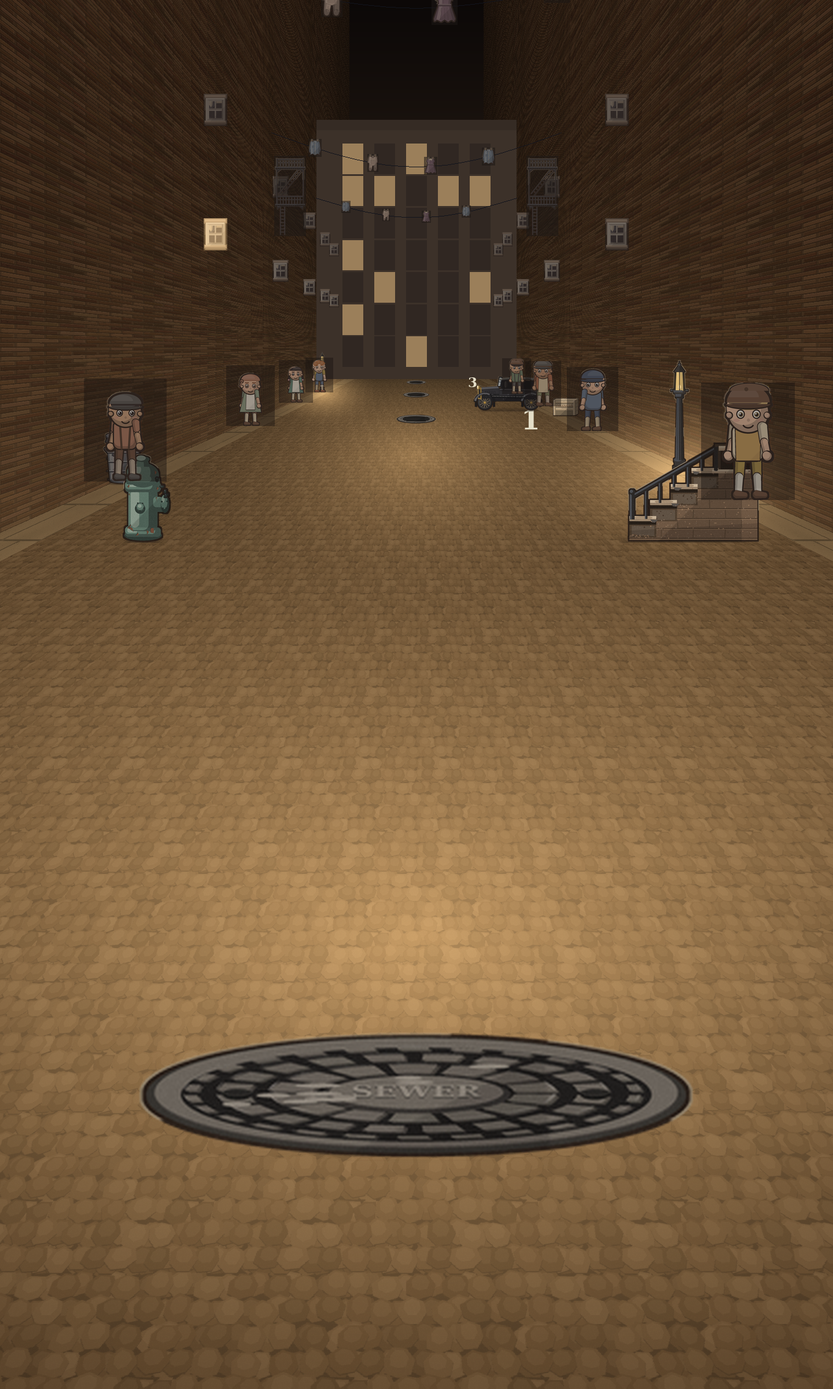
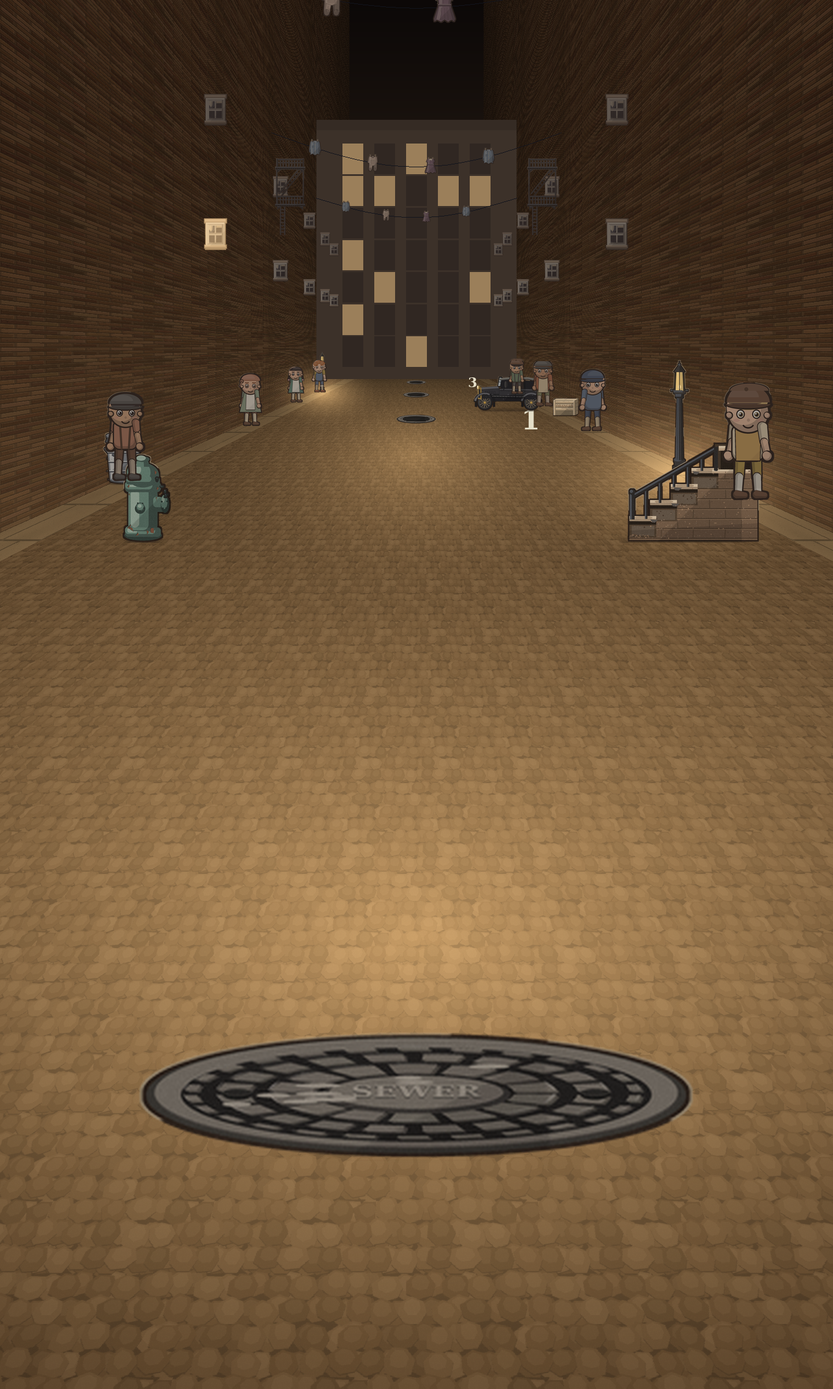
Give landscape the same camera as portrait; stop tinting away sprite cutouts
Landscape composition was failing the reference and the numbers said why.
Measuring the batter and the pitcher at their real world positions:

           batter        pitcher      depth ratio
  portrait  21.3%         4.2%          5.0x
  landscape 16.6%         7.5%          2.2x

A 2.2x ratio is not a street receding away from you, it is a flat top-down
board. The cause was z_far: 74.0 in portrait, 10.3 in landscape. But depth
falloff belongs to the lens, not to the phone's orientation — it is the same
camera looking down the same street. z_far had been dropped to 10.3 to stop
the batter falling off the bottom of a short frame, which treated a framing
bug with a lens change and flattened the world to hide it.

Landscape now shares z_far=74.0 and pushes its near plane well below the
frame (near_f 1.02 -> 2.39), letting the batter's feet crop the way the
reference art does. Both views now measure 5.0x. perspective.py and
tuning.gd move together, as they must, or the baked backdrop and the live
sprites would disagree.

Separately, every spectator on the kerb was standing in a dark rectangle.
Image.blend mixes the alpha channel too, so blending an RGBA sprite toward
an opaque colour lifts the transparent surround to alpha=amount*255 and
paints a translucent box over the sprite's bounding box. Five call sites did
this. Added _dim(), which tints the colour and puts the original alpha back.

Claude-Session: https://claude.ai/code/session_01EAhAdM4K8KttNcwM1gG72N

diff --git a/threesewers/tools/art_backdrop.py b/threesewers/tools/art_backdrop.py
@@ -178,6 +178,23 @@ def _vignette(img, strength=0.72):
     return out
 
 
+def _dim(spr, colour, amount):
+    """Tint a sprite toward a colour WITHOUT eating its cutout.
+
+    Image.blend mixes every channel, alpha included, so blending an RGBA
+    sprite toward an opaque colour lifts the transparent surround to
+    alpha=amount*255 and paints a translucent rectangle over the sprite's
+    whole bounding box. Every spectator on the kerb was standing in a dark
+    box because of this. Tint the colour, keep the original alpha.
+    """
+    a = spr.getchannel("A")
+    out = Image.blend(spr.convert("RGB"),
+                      Image.new("RGB", spr.size, tuple(colour[:3])), amount)
+    out = out.convert("RGBA")
+    out.putalpha(a)
+    return out
+
+
 def _paste(base, sprite, sx, sy, scale, anchor="bottom"):
     if scale <= 0.002:
         return
@@ -246,7 +263,7 @@ def build_backdrop(view, props_dir, chars_dir=None, rs=2, seed=3):
             return
         sx, sy, s = view.project(world_x, world_y, height)
         if tint is not None:
-            spr = Image.blend(spr, Image.new("RGBA", spr.size, tint), 0.55)
+            spr = _dim(spr, tint, 0.55)
         if flat:
             # lying on the cobbles, so it is squashed by the grazing angle
             spr = spr.resize((spr.width, max(2, int(spr.height * 0.52))),
@@ -268,14 +285,12 @@ def build_backdrop(view, props_dir, chars_dir=None, rs=2, seed=3):
                 continue
             sx, sy, s = view.project(wx, wy, 470.0)
             if lit:
-                spr = Image.blend(spr, Image.new("RGBA", spr.size,
-                                                 (255, 206, 140, 255)), 0.55)
+                spr = _dim(spr, (255, 206, 140), 0.55)
             else:
-                spr = Image.blend(spr, Image.new("RGBA", spr.size, night), 0.62)
+                spr = _dim(spr, night, 0.62)
             _paste(img, spr, sx * rs, sy * rs, s * view.xk * ART * rs, "center")
             sx, sy, s = view.project(wx, wy, 760.0)
-            spr2 = Image.blend(_load_prop(props_dir, "window"),
-                               Image.new("RGBA", spr.size, night), 0.7)
+            spr2 = _dim(_load_prop(props_dir, "window"), night, 0.7)
             _paste(img, spr2, sx * rs, sy * rs, s * view.xk * ART * rs, "center")
 
     # home, and the sewer covers the whole game is counted in
@@ -313,7 +328,7 @@ def build_backdrop(view, props_dir, chars_dir=None, rs=2, seed=3):
             if not os.path.exists(f):
                 continue
             spr = Image.open(f).convert("RGBA")
-            spr = Image.blend(spr, Image.new("RGBA", spr.size, night), 0.42)
+            spr = _dim(spr, night, 0.42)
             sx, sy, s = view.project(wx, wy, 0.0)
             _paste(img, spr, sx * rs, sy * rs, s * view.xk * ART * rs, "bottom")
 

diff --git a/threesewers/tools/perspective.py b/threesewers/tools/perspective.py
@@ -86,12 +86,18 @@ class View:
         return s * self.xk * 0.5
 
 
-# The two presets the game ships with. Portrait is the reference composition;
-# landscape sits the horizon lower and widens the gain so the same street
-# reads on a short, wide screen.
+# The two presets the game ships with. Both look down the SAME street from the
+# SAME camera, so they share z_far: how fast the world shrinks with distance is
+# a property of the lens, not of the phone's orientation. Landscape once had
+# z_far=10.3, which flattened the street until the batter (16.6% of frame) was
+# barely larger than the pitcher (7.5%) and the whole thing read as top-down.
+# That was a framing bug being paid for in the wrong currency — the batter was
+# falling off the bottom, and squashing the depth hid it. The honest fix is to
+# push the near plane far below the frame and let the batter's feet crop, which
+# is what the reference art does.
 PORTRAIT = View("portrait", 720, 1200,
                 horizon_f=0.250, near_f=1.88, z_far=74.0, xk=9.40, near_y=2400.0)
 LANDSCAPE = View("landscape", 1280, 720,
-                 horizon_f=0.225, near_f=1.02, z_far=10.3, xk=1.86, near_y=2400.0)
+                 horizon_f=0.225, near_f=2.39, z_far=74.0, xk=8.50, near_y=2400.0)
 
 VIEWS = {"portrait": PORTRAIT, "landscape": LANDSCAPE}
